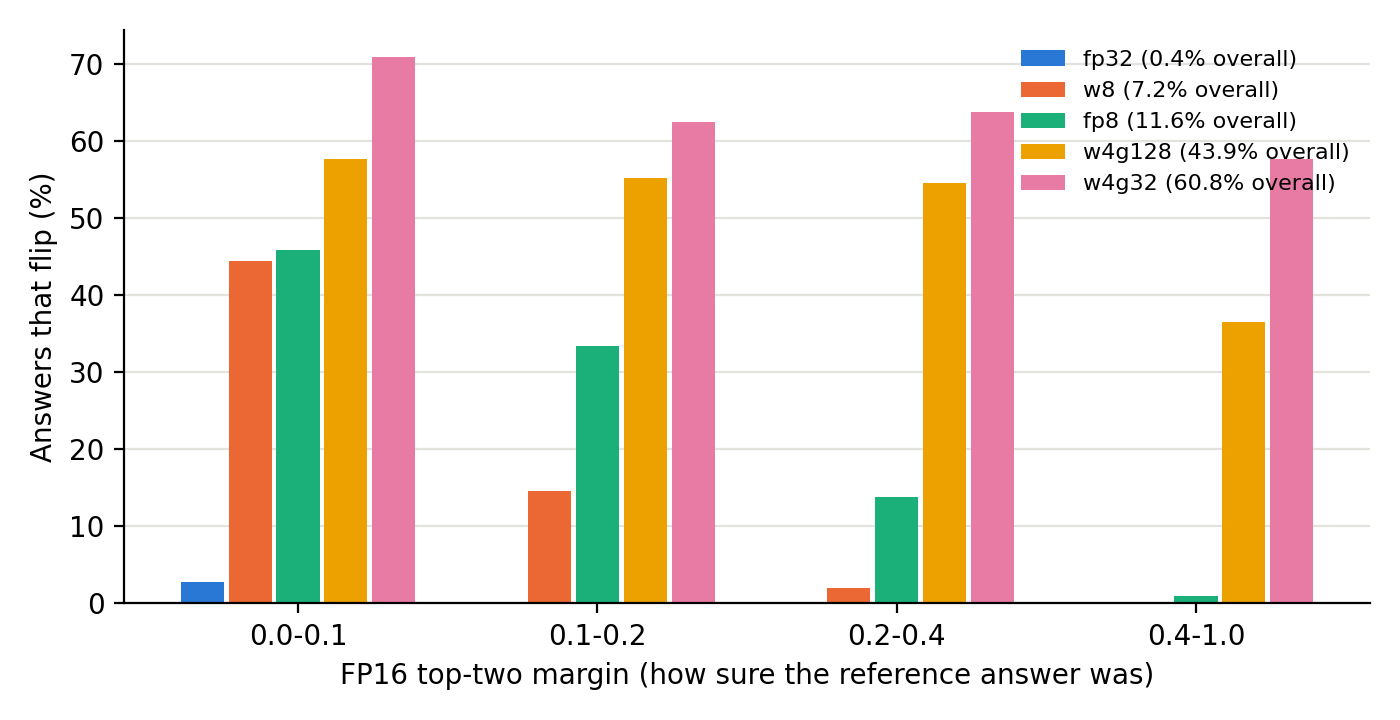
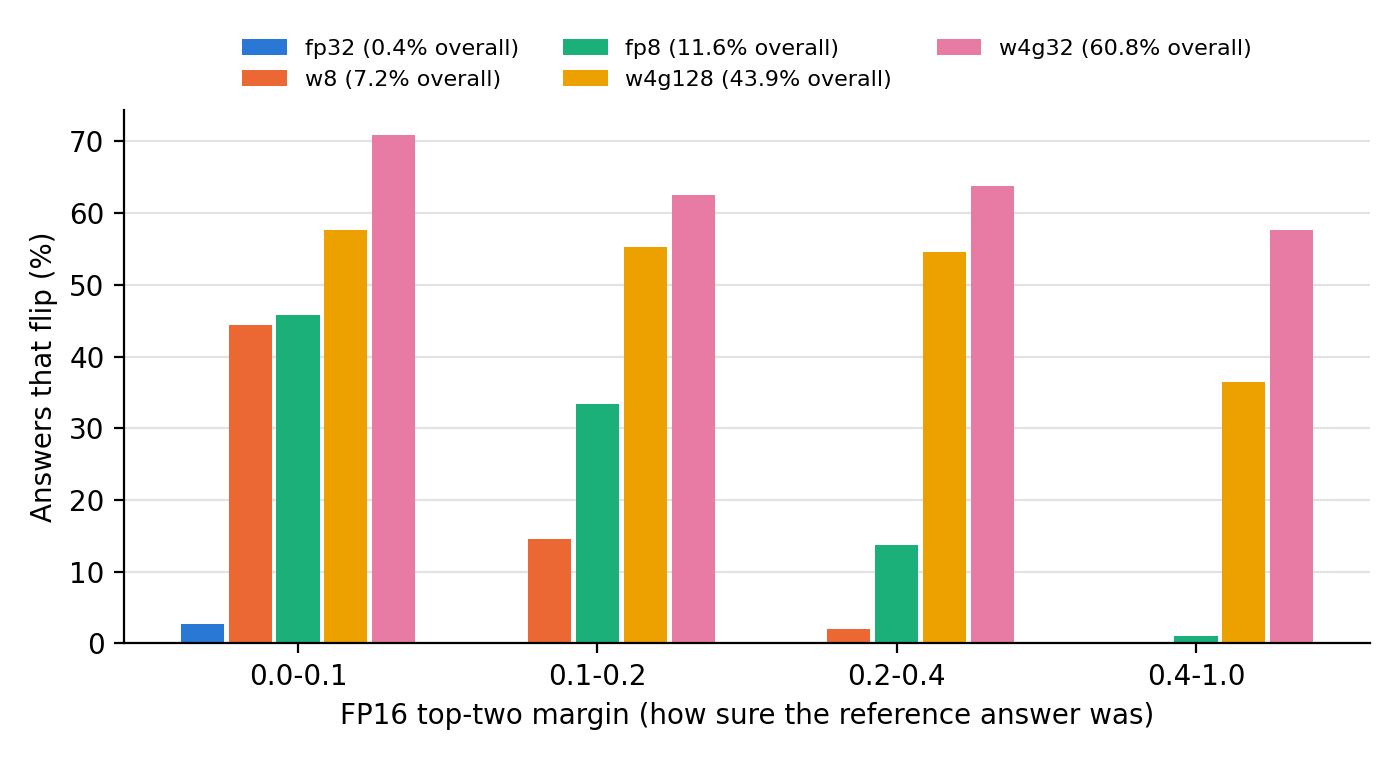
Move the flip chart legend above the plot
The legend covered the INT4 group-32 bar in the highest-margin bin.

diff --git a/src/analyze_flips.py b/src/analyze_flips.py
@@ -57,7 +57,7 @@ def plot(rows, path):
 
     rows = [r for r in rows if r["flips"] > 0]
     labels = [b["margin"] for b in rows[0]["flips_by_reference_margin"]]
-    fig, ax = plt.subplots(figsize=(7, 3.6), dpi=200)
+    fig, ax = plt.subplots(figsize=(7, 3.8), dpi=200)
     width = 0.8 / len(rows)
     colors = ["#2a78d6", "#eb6834", "#1baf7a", "#eda100", "#e87ba4"]
     for k, r in enumerate(rows):
@@ -71,7 +71,7 @@ def plot(rows, path):
     ax.spines[["top", "right"]].set_visible(False)
     ax.grid(axis="y", color="#e4e2dc", linewidth=0.8)
     ax.set_axisbelow(True)
-    ax.legend(frameon=False, fontsize=8)
+    ax.legend(frameon=False, fontsize=8, ncol=3, loc="lower center", bbox_to_anchor=(0.5, 1.0))
     fig.tight_layout()
     fig.savefig(path)
 
